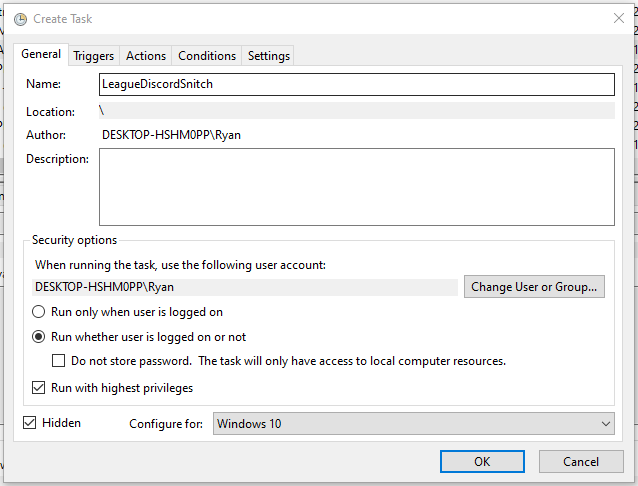
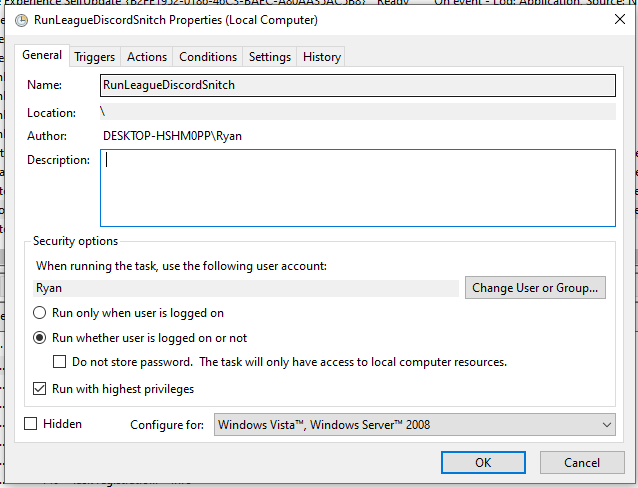
fixed issue where windows task scheduler was not running .bat on schedule automatically

Changed region(s): [[0.0, 0.0, 1.0, 1.0]]

diff --git a/README.md b/README.md
@@ -20,6 +20,10 @@ We use [LeagueDiscordBotFiles](https://github.com/gtai1/LeagueDiscordBotFiles) r
 ![Windows Task Scheduler Conditions Tab](WindowsTaskScheduler/conditions.PNG)
 ![Windows Task Scheduler Settings Tab](WindowsTaskScheduler/settings.PNG)
 
+## Batch File Refactor
+
+Edit all the locations in run-discord-bot.bat to the absolute paths on your pc.
+
 ~~## Setup: Run on Start Up in Windows 10~~
 
 ~~<ol>~~
